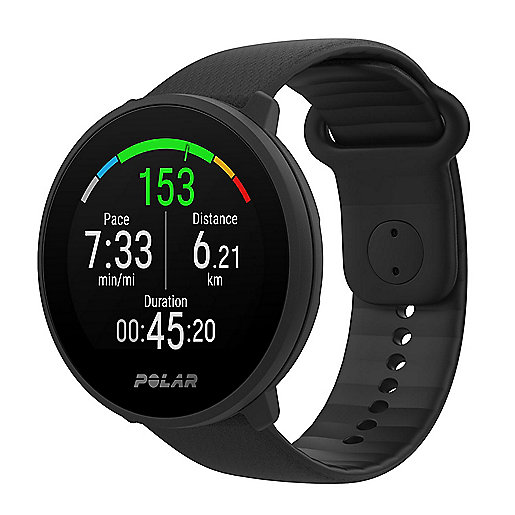
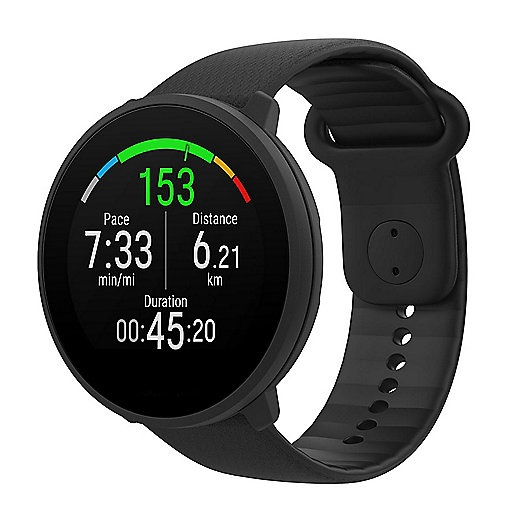
react_update_css

diff --git a/assets/react/controllers/chaussure.jsx b/assets/react/controllers/chaussure.jsx
@@ -33,15 +33,17 @@ export default function (props) {
   const currentproduit = produit[currentPage];
 
         return (
-            <div>
-                <h1>Chaussure</h1>  
-
+            <div className='bloc'>
                 { produit.length === 0 && <span>Loading...</span>}
+                
+                <button className = 'precedent'onClick={prevPage} disabled={currentPage === 0}></button>
+
+                <div className="article-container">
                 {  produit.length > 0  && (
                     <ul>
                             <li key={currentproduit.id}>
+                                <h1 className='nom'>{currentproduit.nom}</h1>
                                 <img src={currentproduit.image} />
-                                <h3>Nom : {currentproduit.nom}</h3>
                                 <h3>Description : {currentproduit.description}</h3>
                                 <h3>Prix : {currentproduit.prix} €</h3>
                                 <h3>Couleur : {currentproduit.couleur}</h3>
@@ -56,20 +58,20 @@ export default function (props) {
                                     ) : (
                                         <h3>En rupture de stock</h3> 
                                     )}
+                                    
+                                <span>{currentPage + 1} / {produit.length}</span>
+
                                 
                             </li>
                         
-                        <button onClick={prevPage} disabled={currentPage === 0}>
-                            Page précédente
-                        </button>
-                            <span>{currentPage + 1} / {produit.length}</span>
-                        <button onClick={nextPage} disabled={currentPage === produit.length - 1}>
-                        Page suivante
-                        </button>
                     </ul>
+                    
                 )}
+                </div>
+                <button className = 'suivant' onClick={nextPage} disabled={currentPage === produit.length - 1}></button>
                    
             </div>
+            
             
         );
     

diff --git a/assets/styles/app.scss b/assets/styles/app.scss
@@ -28,4 +28,78 @@ body {
 img {
     display: block;
     width: 40%;
+    margin: auto;
   }
+
+.article-container {
+  max-width: 600px;
+  margin: 0 auto;
+  padding: 20px;
+  border: 1px solid #c1c1c1;
+  border-radius: 15px;
+  box-shadow: 10px 5px 8px rgba(0,0,0,.1);
+  text-align: center;
+  }
+
+
+
+.nom{
+    text-transform : capitalize;
+  }
+
+  ::marker {
+    font-size: 0em;
+  }
+  
+
+/* Pseudo-élément pour créer la flèche */
+.precedent::after {
+  content: '\2190'; /* Code unicode pour la flèche vers la droite */
+  font-size: 60px;
+  display: inline-block;}
+
+/* Effet de survol */
+.precedent:hover {
+  background-color: #2980b9;
+}
+
+/* Effet de survol pour la flèche */
+.precedent:hover::after {
+  margin: 5px;
+}
+
+
+/* Pseudo-élément pour créer la flèche */
+.suivant::after {
+  content: '\2192'; /* Code unicode pour la flèche vers la droite */
+  font-size: 60px;
+  display: inline-block;}
+
+/* Effet de survol */
+.suivant:hover {
+  background-color: #2980b9;
+}
+
+/* Effet de survol pour la flèche */
+.suivant:hover::after {
+  margin: 5px;
+}
+
+.bloc {
+  display: flex;
+  justify-content: space-between; /* Les éléments sont placés de chaque côté du conteneur */
+  align-items: center; /* Aligner les éléments verticalement au centre */
+  padding: 10px; /* Ajoutez un peu d'espace autour des boutons et du bloc */
+}
+
+.precedent, .suivant {
+  padding: 10px 10px;
+  background-color: #3498db;
+  color: #ffffff;
+  text-decoration: none;
+  border: none;
+  border-radius: 5px;
+  cursor: pointer;
+}
+
+

diff --git a/assets/styles/app.css b/assets/styles/app.css
@@ -1,1 +1,1 @@
-body{background-color:#fffffa}.bouton li{margin:0}.bouton button{background-color:#4caf50;border:none;color:#fff;padding:6px 10px;text-align:center;text-decoration:none;display:inline-block;font-size:16px;margin:4px 5px;border-radius:10px;cursor:pointer}img{display:block;width:40%}
+body{background-color:#fffffa}.bouton li{margin:0}.bouton button{background-color:#4caf50;border:none;color:#fff;padding:6px 10px;text-align:center;text-decoration:none;display:inline-block;font-size:16px;margin:4px 5px;border-radius:10px;cursor:pointer}img{display:block;width:40%;margin:auto}.article-container{max-width:600px;margin:0 auto;padding:20px;border:1px solid #c1c1c1;border-radius:15px;box-shadow:10px 5px 8px rgba(0,0,0,.1);text-align:center}.nom{text-transform:capitalize}::marker{font-size:0em}.precedent::after{content:"←";font-size:60px;display:inline-block}.precedent:hover{background-color:#2980b9}.precedent:hover::after{margin:5px}.suivant::after{content:"→";font-size:60px;display:inline-block}.suivant:hover{background-color:#2980b9}.suivant:hover::after{margin:5px}.bloc{display:flex;justify-content:space-between;align-items:center;padding:10px}.precedent,.suivant{padding:10px 10px;background-color:#3498db;color:#fff;text-decoration:none;border:none;border-radius:5px;cursor:pointer}

diff --git a/assets/react/controllers/montre.jsx b/assets/react/controllers/montre.jsx
@@ -1,5 +1,5 @@
 import React, { useState, useEffect } from 'react';
-import image from './chaussure2.jpg'
+import image from './montre2.jpg'
 
 
 export default function (props) {

diff --git a/src/Controller/ProduitController.php b/src/Controller/ProduitController.php
@@ -91,6 +91,8 @@ class ProduitController extends AbstractController
                 'couleur' => $product->getCouleur(),
                 'taille' => $product->getTaille(),
                 'quantite' => $product->getQuantite(),
+                'image' => $product->getImage()
+
             ];
         }
         return $this->json($produits, 200);
